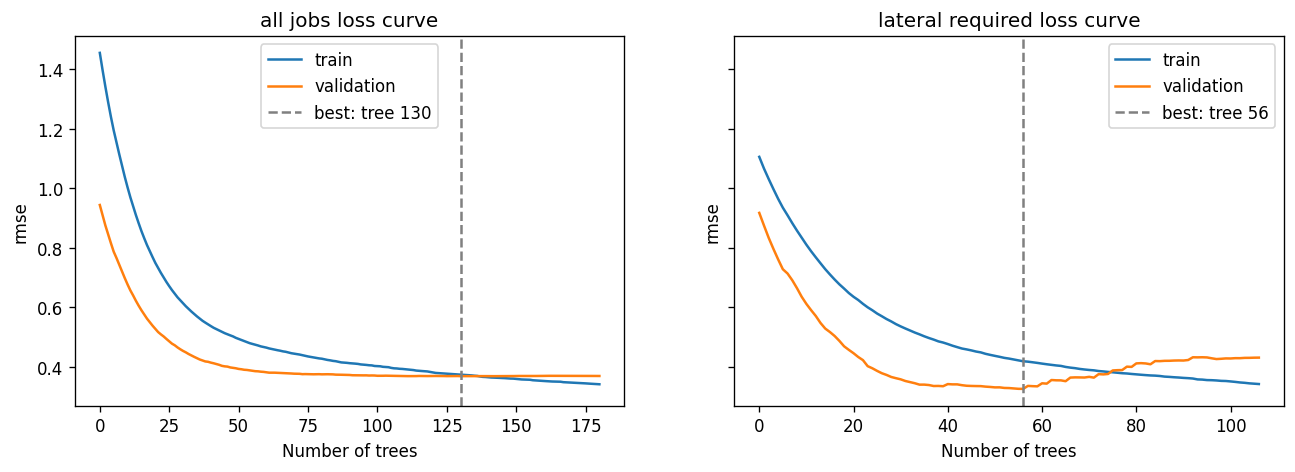
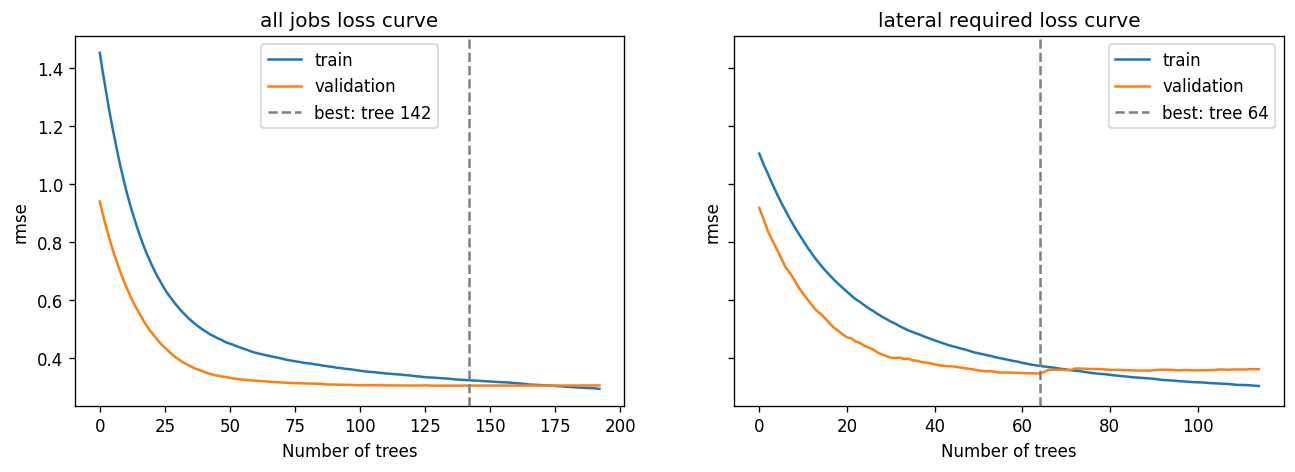
addition of paper parsing

diff --git a/src/data/consolidate.py b/src/data/consolidate.py
@@ -217,6 +217,19 @@ def main():
         df = df.merge(fluid, on="DisclosureId", how="left", validate="m:1")
         df = build_features(df)
 
+        test = df.copy()
+        test["Year"] = pd.to_datetime(test["JobStartDate"], errors="coerce").dt.year
+        print(test.groupby("Year")[["TVD"]].agg(lambda s: s.isna().mean()))
+        print((test["TVD"] == 0).groupby(test["Year"]).mean())
+
+        col = "lateral_length_approx"
+        test = test.rename(columns={"md_minus_tvd": "lateral_length_approx"})
+
+        print("--------------------")
+        print("Lateral Length: ")
+        print(test[col].isna().groupby(test["Year"]).mean())
+        print((test[col] == 0).groupby(test["Year"]).mean())
+
         print("formation coverage:", df["target_formation"].notna().mean())
         report(df, n_jobs=len(ff))
 

diff --git a/src/data/parsers/federal_well_scraper.py b/src/data/parsers/federal_well_scraper.py
@@ -1,0 +1,36 @@
+import re
+import pandas as pd
+import numpy as np
+import time
+import sqlite3
+
+
+from data.emnrd_data import emnrd_per_well, login, session_auth
+from data.config import DB_PATH
+
+def parse_federal():
+    raise NotImplementedError()
+
+def parse_state():
+    raise NotImplementedError()
+
+def federal_or_state(text):
+    t = text.upper()
+    if "APPLICATION FOR PERMIT TO DRILL" in t or "3160-3" in t:
+        return "federal",
+
+
+def fetch_missing_laterals():
+    query = """
+    SELECT DISTINCT api
+    FROM model_base
+        WHERE md_minus_tvd IS NULL;
+    """
+    with sqlite3.connect(DB_PATH) as conn:
+        df = pd.read_sql(query, conn)
+        return df
+
+
+if __name__ == "main":
+    auth_key, refresh_key = login()
+    auth = session_auth(auth_key, refresh_key)

diff --git a/src/FeatureEngineering/build_features.py b/src/FeatureEngineering/build_features.py
@@ -61,6 +61,9 @@ def add_refrac(df):
     ).astype(int)
     return df
 
+def lateral_length_fall():
+
+
 def add_formation(df):
     """Tidy formation names so spelling variants count as one formation."""
     df = df.copy()
